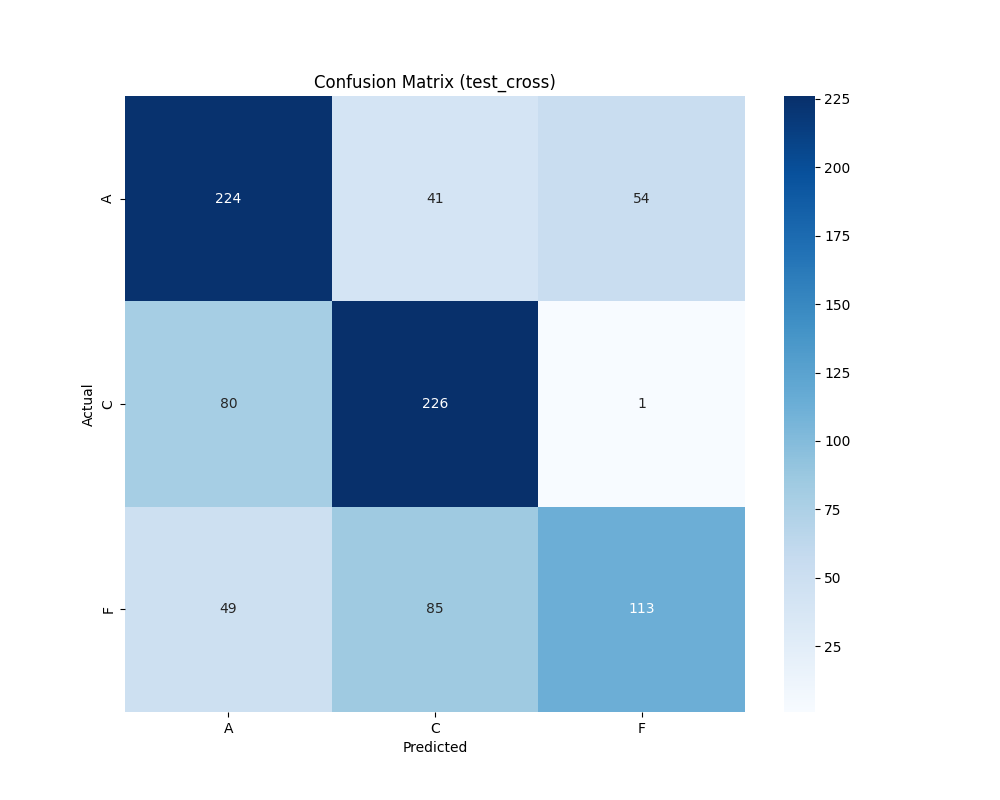
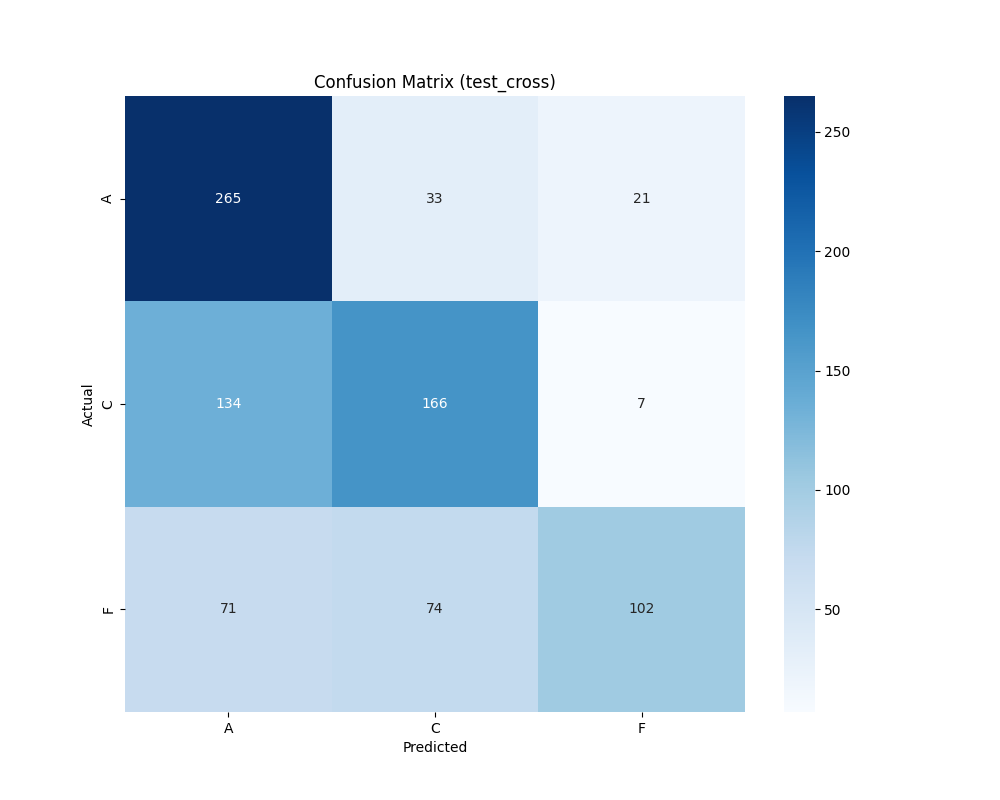
15th March

diff --git a/test_mvt.py b/test_mvt.py
@@ -25,12 +25,13 @@ if not os.path.exists('test_results'):
 # Model parameters
 num_chans = 19
 num_classes = 3
-dim = 256
+dim = 512
 dropout_rate = 0.1
 
 def test_model(data_type='test_cross'):
    # Load model from checkpoint
-   checkpoint_path = 'models/best_mvt_model_fold2.pth'
+   checkpoint_path = r'models\best_mvt_model_fold1.pth'
+
    
    import os
    if not os.path.exists(checkpoint_path):

diff --git a/train_kfold_mvt.py b/train_kfold_mvt.py
@@ -149,7 +149,7 @@ log_message(f'Total samples: {len(balanced_train_data)}')
 train_dataset = EEGDataset(data_dir, balanced_train_data)
 
 # Training parameters
-epochs = 100
+epochs = 150
 batch_size = 16
 learning_rate = 0.0003  # Increased from 0.0001
 accumulation_steps = 4
